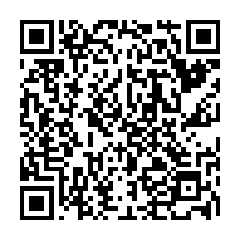
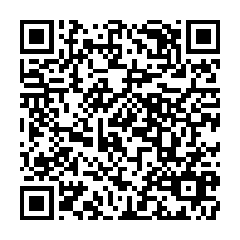
new crypto wallets

Changed region(s): [[0.0583, 0.0583, 0.9333, 0.9333], [0.9042, 0.5542, 0.9333, 0.6125]]

diff --git a/index.html b/index.html
@@ -97,7 +97,7 @@
             
                         <img class="qr" src="/html/images/monero-qr.png" alt="My Monero wallet's qr code">
                         <br>
-                        <code class="address">44ziUrL7Hp4Mh2A4AtcBM9WZMRse4rwwPQXDXaftdhDEg4Wzq24rFfJeDp3w2QUeNRaiPWCJofV6KY9SBzQkh2yYKeYBGBo</code>
+                        <code class="address">43DJVzp2x19dCaa3nCrfZhBk2si9xNDAVWtWwKTVPYcPbeHHo68Gf7MWXuM2S8TH4BPRs4grPc6HLGKFaEq4cUGTRpZjo3q</code>
                         <img class="close" onclick="moneropopup()" src="/html/images/close.png" alt="Close button">
                     </span>
                 </div>
@@ -111,7 +111,7 @@
         
                         <img class="qr" src="/html/images/bitcoin-qr.png" alt="My Bitcoin address's qr code">
                         <br>
-                        <code class="address">bc1qxvnaexe3y22lf7gpxlg4zv58yq64cehgptla74</code>
+                        <code class="address">bc1qlg3rsjwcy2wvgr6c54m73460zu3naz4vrz0r9q</code>
                         <img class="close" onclick="bitcoinpopup()" src="/html/images/close.png" alt="Close button">
                     </span>
                 </div>
